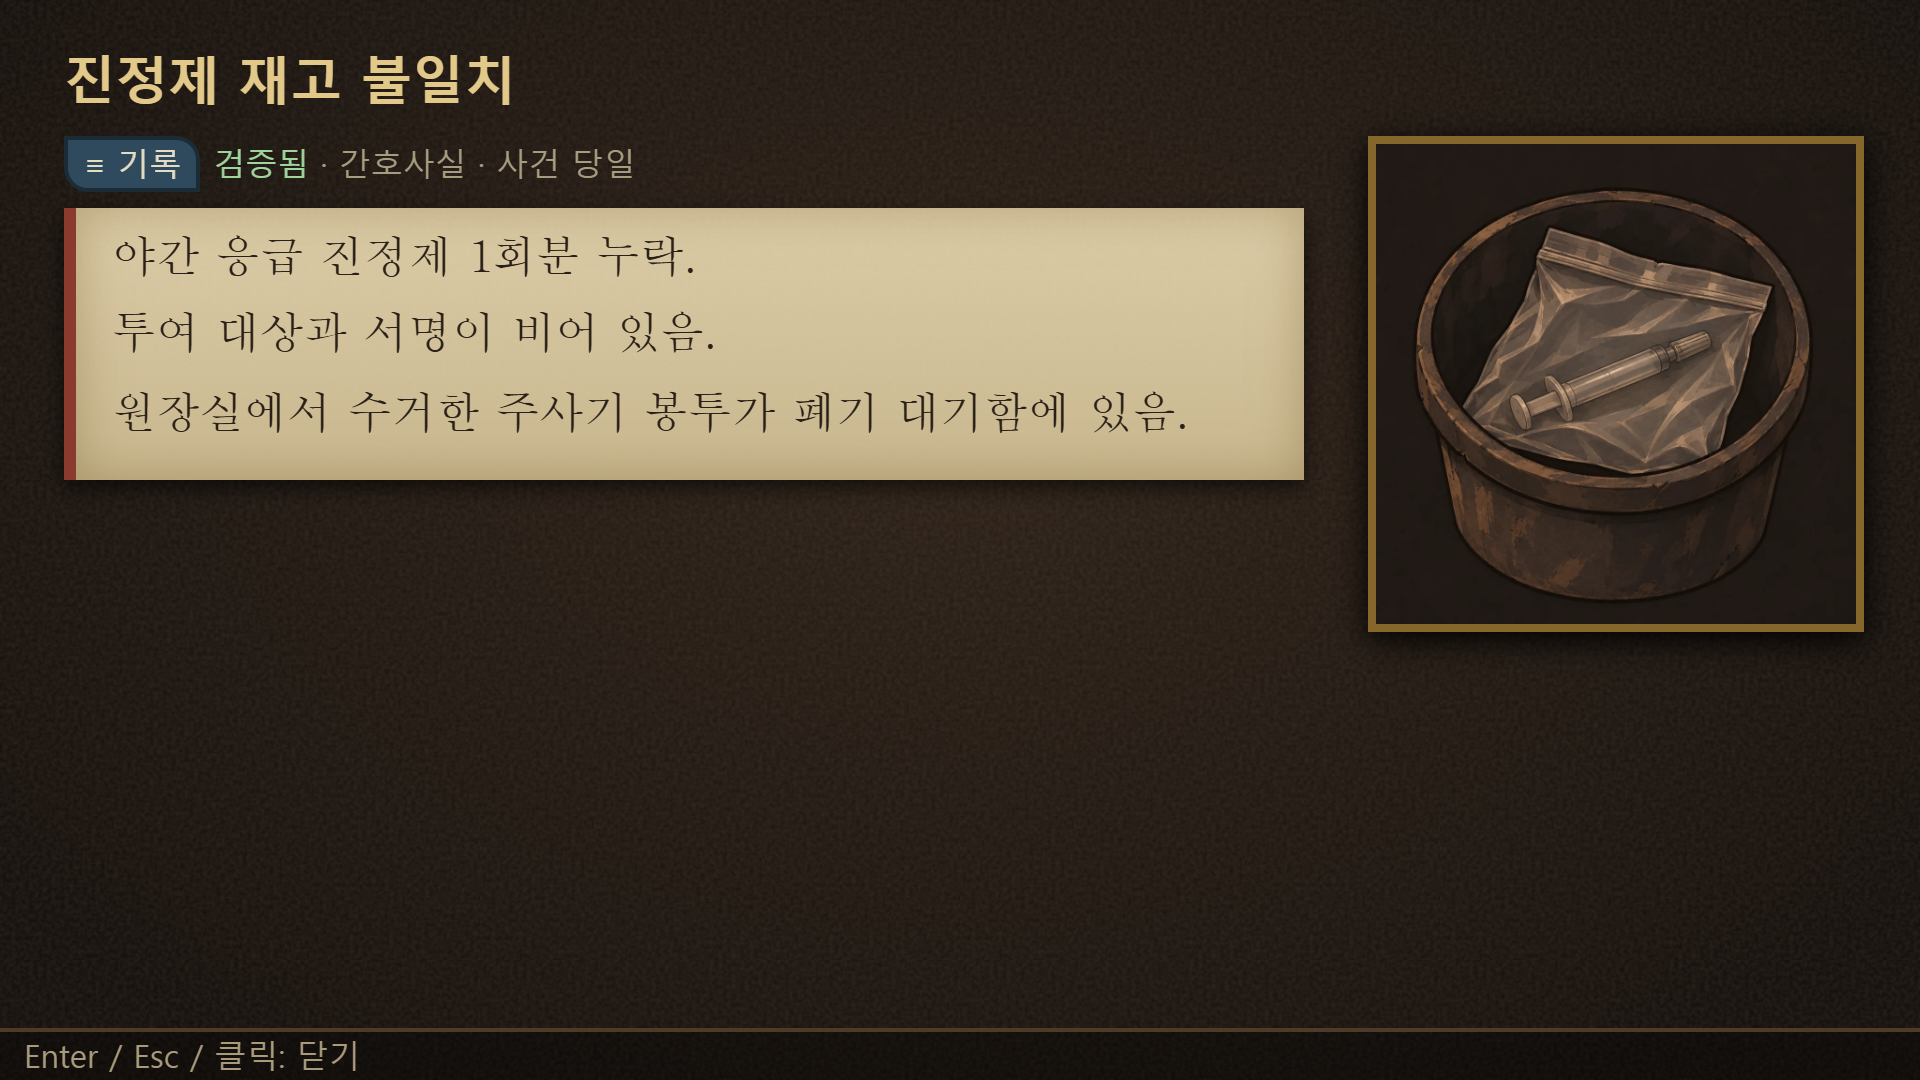
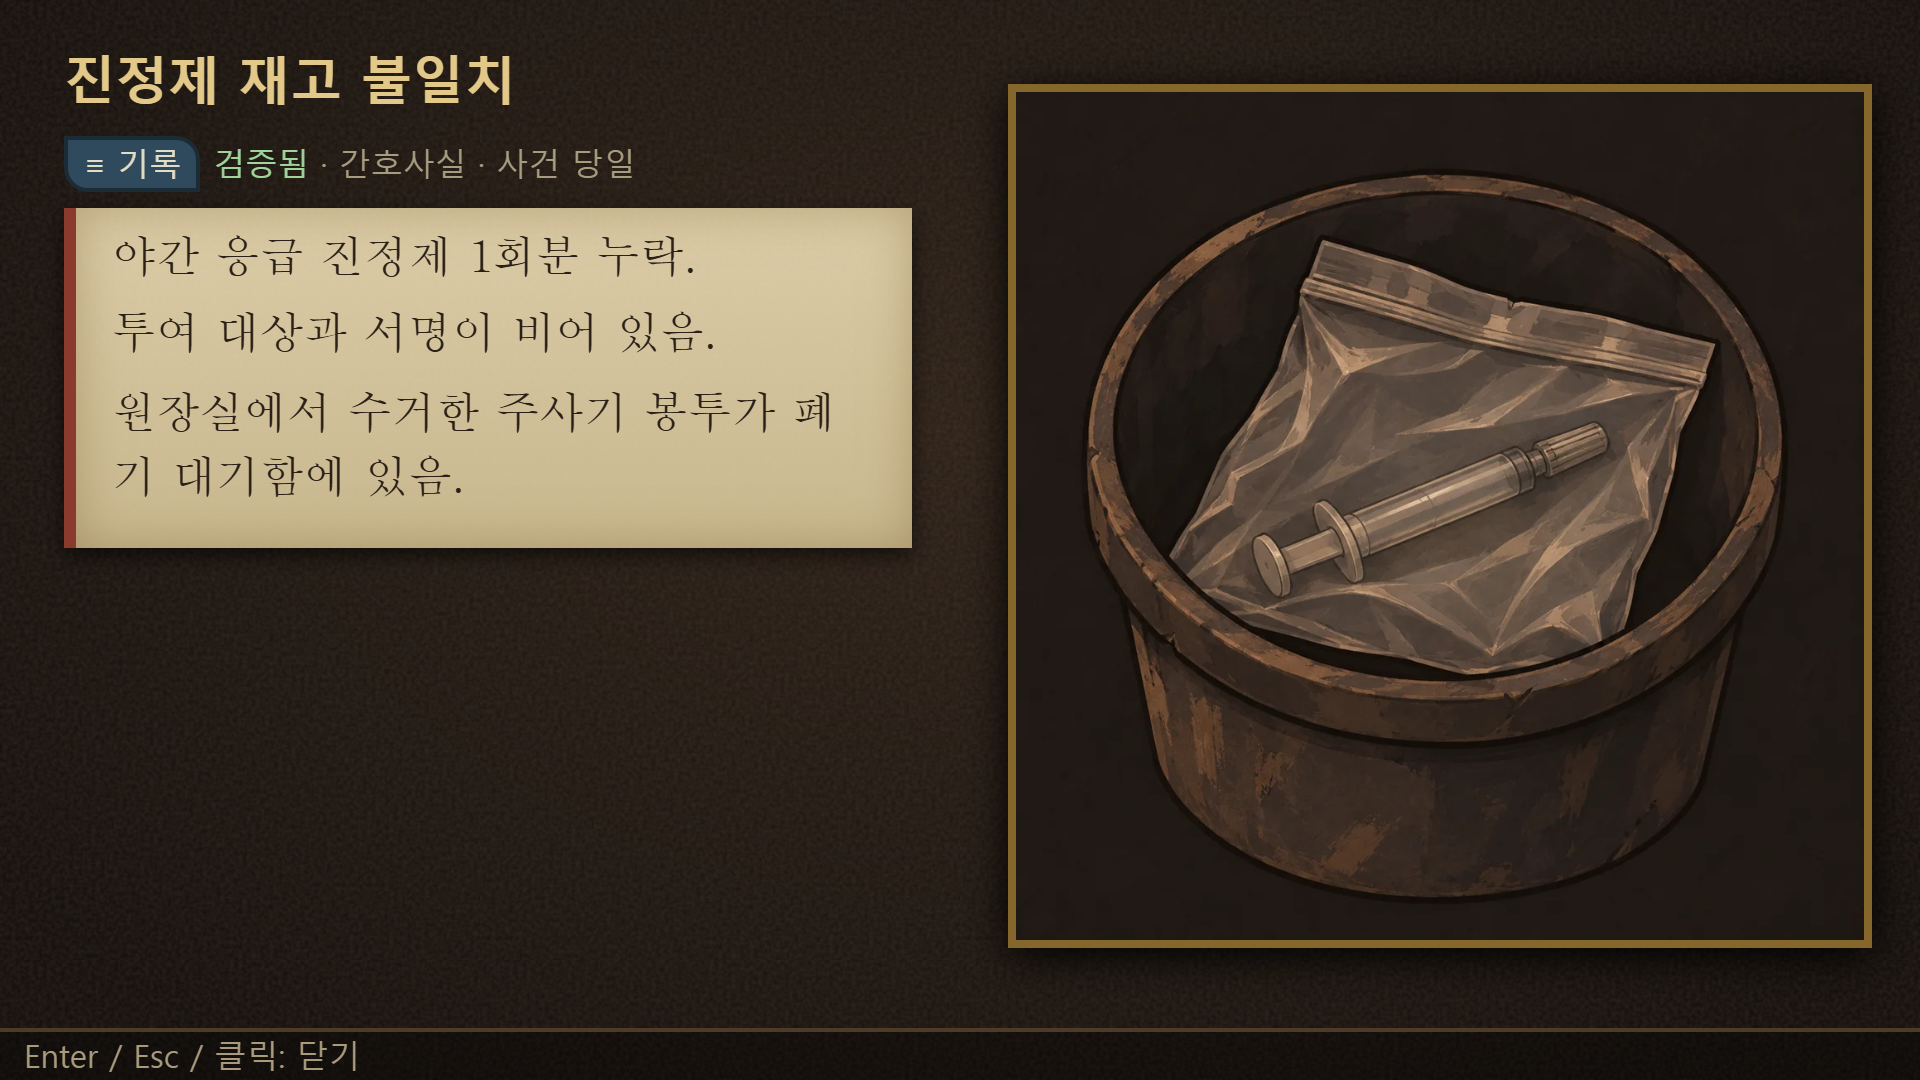
배치 6 보정: 엔딩 결과 판·타이틀 안내 삭제·증거 사진 확대

Changed region(s): [[0.0312, 0.0917, 1.0, 0.8861], [0.5312, 0.0611, 0.9688, 0.0917]]

diff --git a/src/ui/ui.css b/src/ui/ui.css
@@ -325,15 +325,16 @@
 .dlg .portrait.flip { transform: scaleX(-1); } /* 원래 왼쪽을 보는 초상은 뒤집어 대화 상대(화면 안쪽)를 보게 한다. 원본 그림은 그대로 */
 
 /* ---------- 배치 6 일러스트: 증거 사진 · 엔딩 카드 · 타이틀 ---------- */
-.viewer.photo > *:not(.docbg):not(.foot) { margin-right: 138px; }
-.viewer .docbg.photo { right: 14px; top: 34px; width: 120px; height: 120px; opacity: 1; object-fit: cover; border: 2px solid var(--brass-d); box-shadow: 0 2px 8px #000; background: #000; }
-.ending .ebg { position: absolute; inset: 0; width: 100%; height: 100%; object-fit: cover; }
-.ending .etop { position: absolute; left: 0; right: 0; top: 0; padding: 8px 20px 18px; text-align: center; background: linear-gradient(180deg, rgba(8,6,5,.9) 0, rgba(8,6,5,.78) 60%, rgba(8,6,5,0) 100%); }
+.viewer.photo > *:not(.docbg):not(.foot) { margin-right: 236px; }
+.viewer.photo .docbody { max-width: none; }
+.viewer .docbg.photo { right: 12px; top: calc(50% - 6px); transform: translateY(-50%); width: 212px; height: 212px; opacity: 1; object-fit: cover; border: 2px solid var(--brass-d); box-shadow: 0 2px 10px #000; background: #000; }
+.ending .ebg { position: absolute; inset: 0; width: 100%; height: 100%; object-fit: cover; filter: blur(7px) brightness(.5); transform: scale(1.06); }
+.ending .ebf { position: absolute; left: 50%; top: 8px; height: 174px; width: auto; transform: translateX(-50%); box-shadow: 0 0 14px 6px rgba(8,6,5,.8); }
+.ending .etop { position: absolute; left: 0; right: 0; top: 0; padding: 6px 20px 14px; text-align: center; background: linear-gradient(180deg, rgba(8,6,5,.88) 0, rgba(8,6,5,.7) 60%, rgba(8,6,5,0) 100%); }
 .ending .etop .etitle { margin-top: 0; }
-.ending .etop .ecard { margin: 4px 0 0; padding: 0; font-size: 11px; color: #ece0c2; background: none; box-shadow: none; text-shadow: 0 1px 2px #000; }
-.ending .eres { position: absolute; left: 0; right: 0; bottom: 13px; display: flex; justify-content: space-between; align-items: flex-end; padding: 22px 12px 4px; font-size: 9px; line-height: 1.4; background: linear-gradient(0deg, rgba(8,6,5,.88) 0, rgba(8,6,5,.7) 65%, rgba(8,6,5,0) 100%); text-shadow: 0 1px 2px #000; pointer-events: none; }
-.ending .eres .el { width: 41%; } .ending .eres .er { width: 31%; }
-.ending .eres p { margin: 0 0 2px; }
+.ending .etop .ecard { margin: 3px 0 0; padding: 0; font-size: 11px; color: #ece0c2; background: none; box-shadow: none; text-shadow: 0 1px 2px #000; }
+.ending .eres { position: absolute; left: 0; right: 0; top: 184px; bottom: 12px; box-sizing: border-box; padding: 5px 14px 3px; font-size: 9px; line-height: 1.25; overflow: hidden; background: linear-gradient(180deg, rgba(8,6,5,0) 0, rgba(8,6,5,.82) 8%, rgba(8,6,5,.88) 92%, rgba(8,6,5,.6) 100%); text-shadow: 0 1px 2px #000; pointer-events: none; }
+.ending .eres p { margin: 0 0 1px; }
 .ending .foot { z-index: 2; text-shadow: 0 1px 2px #000; }
 .title .tbg { position: absolute; inset: 0; width: 100%; height: 100%; object-fit: cover; }
 .title .tveil { position: absolute; inset: 0; background: linear-gradient(90deg, rgba(8,6,5,.92) 0, rgba(8,6,5,.72) 24%, rgba(8,6,5,0) 44%), linear-gradient(0deg, rgba(8,6,5,.6) 0, rgba(8,6,5,0) 22%); }
@@ -345,4 +346,3 @@
 .title:not(.dim) .ts { margin: 2px 0 12px 22px; }
 .title:not(.dim) .tm { width: 112px; margin: 0 0 0 18px; }
 .title:not(.dim) .ctrl { position: absolute; right: 10px; top: 28px; width: 178px; margin: 0; }
-.title:not(.dim) .anykey { right: auto; left: 22px; bottom: 14px; text-align: left; text-shadow: 0 1px 2px #000; }

diff --git a/src/ui/title.ts b/src/ui/title.ts
@@ -1,5 +1,5 @@
 // 최소 타이틀 화면: 새 게임 / 이어하기(저장이 있을 때만) / 조작법. 아트는 7단계.
-import { getVolumes, isUnlocked, onUnlock, setVolume, sfx, toggleMute } from '../audio/audio';
+import { getVolumes, setVolume, sfx, toggleMute } from '../audio/audio';
 import credits from '../data/credits.json';
 import bgmCredits from '../data/bgm-credits.json';
 import { el, esc, root } from './hud';
@@ -41,7 +41,6 @@ export function openTitle(opts: { canContinue: boolean; onNew: () => void; onCon
   const bgmLines = (bgmCredits as string[]).length ? groupCredits(bgmCredits as string[]) : [credits.bgmPending];
   function render() {
     box.classList.toggle('dim', page !== 'main'); // 설정·정보 화면은 그림을 어둡게 눌러 글자가 읽히게 한다
-    const hint = isUnlocked() ? '' : '<div class="anykey">아무 키나 눌러 시작</div>';
     if (page === 'settings') {
       const v = getVolumes();
       box.innerHTML = `${ART}<div class="tt" style="font-size:18px">설정</div>
@@ -58,7 +57,7 @@ export function openTitle(opts: { canContinue: boolean; onNew: () => void; onCon
       box.innerHTML = `${ART}<div class="tt">병원의 고해</div><div class="ts">Confession Ward</div>
         <div class="tm">${items.map((it, i) => `<button class="opt${i === sel ? ' sel' : ''}" data-i="${i}">${esc(it.label)}</button>`).join('')}</div>
         ${showControls ? `<div class="ctrl">${CONTROLS.map(([k, v]) => `<div><kbd>${esc(k)}</kbd> ${esc(v)}</div>`).join('')}</div>` : ''}
-        ${hint}<div class="foot">↑↓ 이동 · Enter 선택</div>`;
+        <div class="foot">↑↓ 이동 · Enter 선택</div>`;
     }
   }
   const adjust = (i: number, d: number) => { if (i < 3) { const k = VOLS[i][0]; setVolume(k, getVolumes()[k] + d * 0.1); sfx('onUiMove'); } };
@@ -70,8 +69,6 @@ export function openTitle(opts: { canContinue: boolean; onNew: () => void; onCon
     if (page === 'settings') { if (v) { setSel = +v.dataset.v!; if (setSel >= 3) pickSetting(setSel); else render(); } return; }
     if (b) { sel = +b.dataset.i!; items[sel].run(); }
   });
-  // 첫 입력(소리 잠금 해제)이 일어나면 "아무 키나" 안내를 지운다
-  onUnlock(() => { if (box.isConnected) render(); });
   pushModal({
     id: 'title',
     onKey(e) {

diff --git a/src/ui/ending.ts b/src/ui/ending.ts
@@ -29,10 +29,10 @@ export function openEnding(s: GameState, h: { onRetry: () => void; onRestart: ()
       const [who, text] = talk[pi];
       box.innerHTML = `<div style="margin-top:80px;text-align:center"><div style="color:#e2c98a">${esc(characterName(who))}</div><div style="margin-top:6px;font-size:12px">“${esc(text)}”</div></div><div class="foot">Enter 계속</div>`;
     } else if (kind === 'card') {
-      // 그림 전체 + 위 띠(제목·카드 문장) + 아래 좌우 두 칸(결과 세 줄). 가운데는 비워 그림의 인물이 가려지지 않게 한다.
+      // 그림은 위쪽에 16:9 전체가 보이게 두고(옆은 같은 그림을 흐리게 깐다), 결과 세 줄은 그 아래 어두운 판에 모은다. 그림의 주요 부분은 가려지지 않는다.
       const res = KEYS.map(([k, name]) => `<p><b>${name}</b> — ${esc(lines[k].text)}</p>`);
-      box.innerHTML = `<img class="ebg" src="assets/illust/${ending.id}.webp" alt=""><div class="etop"><div class="etitle">${esc(ending.title)}</div><div class="ecard">“${esc(ending.card)}”</div></div>
-        <div class="eres"><div class="el">${res.slice(0, 2).join('')}</div><div class="er">${res[2]}</div></div><div class="foot">Enter 계속</div>`;
+      box.innerHTML = `<img class="ebg" src="assets/illust/${ending.id}.webp" alt=""><img class="ebf" src="assets/illust/${ending.id}.webp" alt=""><div class="etop"><div class="etitle">${esc(ending.title)}</div><div class="ecard">“${esc(ending.card)}”</div></div>
+        <div class="eres">${res.join('')}</div><div class="foot">Enter 계속</div>`;
     } else {
       const rows = grade.claims.map((c, i) => `<tr><td>질문 ${'ABCD'[i]}</td><td>${c.solved ? '해결' : '미해결'}</td><td>반박 근거 ${c.rebuttalHit ? '적중' : '빗나감'}</td><td>${c.score}/3점</td></tr>`).join('');
       box.innerHTML = `<div class="etitle" style="font-size:13px">추리 등급 ${grade.letter} (${grade.total}/${grade.max})</div>

diff --git a/tools/batch6-shots.ts b/tools/batch6-shots.ts
@@ -13,7 +13,7 @@ const errors: string[] = [];
 page.on('pageerror', (e) => errors.push(String(e)));
 const cw = (fn: string) => page.evaluate(`(() => { const cw = window.__cw; return ${fn}; })()`);
 const wait = (ms: number) => page.waitForTimeout(ms);
-const shot = (name: string) => page.screenshot({ path: `docs/screenshots/batch6_${name}.png` });
+const shot = async (name: string) => { await page.screenshot({ path: `docs/screenshots/batch6_${name}.png` }); await page.setViewportSize({ width: 1280, height: 720 }); await wait(150); await page.screenshot({ path: `docs/screenshots/batch6_${name}_1280.png` }); await page.setViewportSize({ width: 1920, height: 1080 }); await wait(100); };
 const fresh = async () => {
   await page.goto(pathToFileURL(resolve('.tmp/e2e/index.html')).href);
   await page.waitForFunction(() => (window as any).__cw?.scene?.player); await page.waitForSelector('#title');
